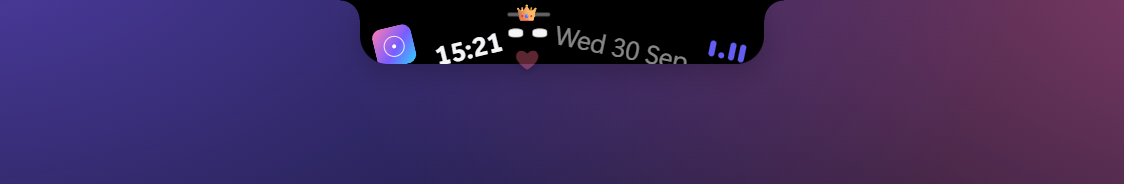
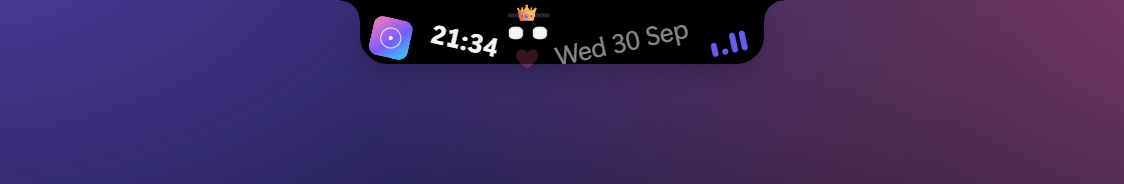
Peeking Kys tips the time and the date into a V

Changed region(s): [[0.3114, 0.0815, 0.6851, 0.3804], [0.4359, 0.0543, 0.4982, 0.0815]]

diff --git a/ui/island.js b/ui/island.js
@@ -1048,11 +1048,11 @@
     // How hard what's on either side gets knocked: sideways, down, askew.
     const n = S.notch.el.style;
     n.setProperty('--knock-l-x', `${-rand(6, 10).toFixed(1)}px`);
-    n.setProperty('--knock-l-y', `${rand(5, 8).toFixed(1)}px`);
-    n.setProperty('--knock-l-r', `${-rand(8, 16).toFixed(1)}deg`);
+    n.setProperty('--knock-l-y', `${rand(3, 5).toFixed(1)}px`);
+    n.setProperty('--knock-l-r', `${rand(8, 16).toFixed(1)}deg`); // inner ends down: a V
     n.setProperty('--knock-r-x', `${rand(6, 10).toFixed(1)}px`);
-    n.setProperty('--knock-r-y', `${rand(5, 8).toFixed(1)}px`);
-    n.setProperty('--knock-r-r', `${rand(7, 14).toFixed(1)}deg`);
+    n.setProperty('--knock-r-y', `${rand(3, 5).toFixed(1)}px`);
+    n.setProperty('--knock-r-r', `${-rand(7, 14).toFixed(1)}deg`);
     // Above the island first (off the screen), right over the spot they land on...
     const eyes = S.eyes.el;
     eyes.style.transition = 'none';

diff --git a/CHANGELOG.md b/CHANGELOG.md
@@ -10,6 +10,7 @@ What changed in each version. The section of a version is also the text of its G
 - **Simple brain**, the default: it understands commands ("next song", "pause", "volume 30", "louder", "mute"), questions ("what time is it?", "what's playing?", "are you hungry?") and a bit of small talk, in English and French. Nothing to download, nothing running.
 - **Light and Smart brains**, an option (settings, Kys tab, Brain): a small AI running on your PC, to really chat. **Light** (Qwen3 1.7B, 1.1 GB) answers in about a second; **Smart** (Qwen3 4B, 2.5 GB) takes about three and is much better company, with a real personality and a memory of the conversation. Download the one you want from the settings. It starts loading as soon as you click the input, and is freed a minute after you stop talking. Nothing leaves your PC. Commands still go through the simple brain: instant and reliable.
 - **Emotions**: each answer comes with an emotion (happy, curious, surprised, suspicious, grumpy, worried, sleepy, sad), shown by Kys's own eyes: brows and eyelids on the face of its page, on the buddy of the settings, and on the island itself, where Kys drops in to show it when you talk to it from the settings. Be mean to it and its joy goes down.
+- When Kys drops into the island, the time and the date now tip into a V around it.
 - The installer includes llama.cpp, which runs the model with the best instructions your processor has (6 MB installer instead of 4.7 MB).
 
 ## 0.4.1 — 2026-09-30
